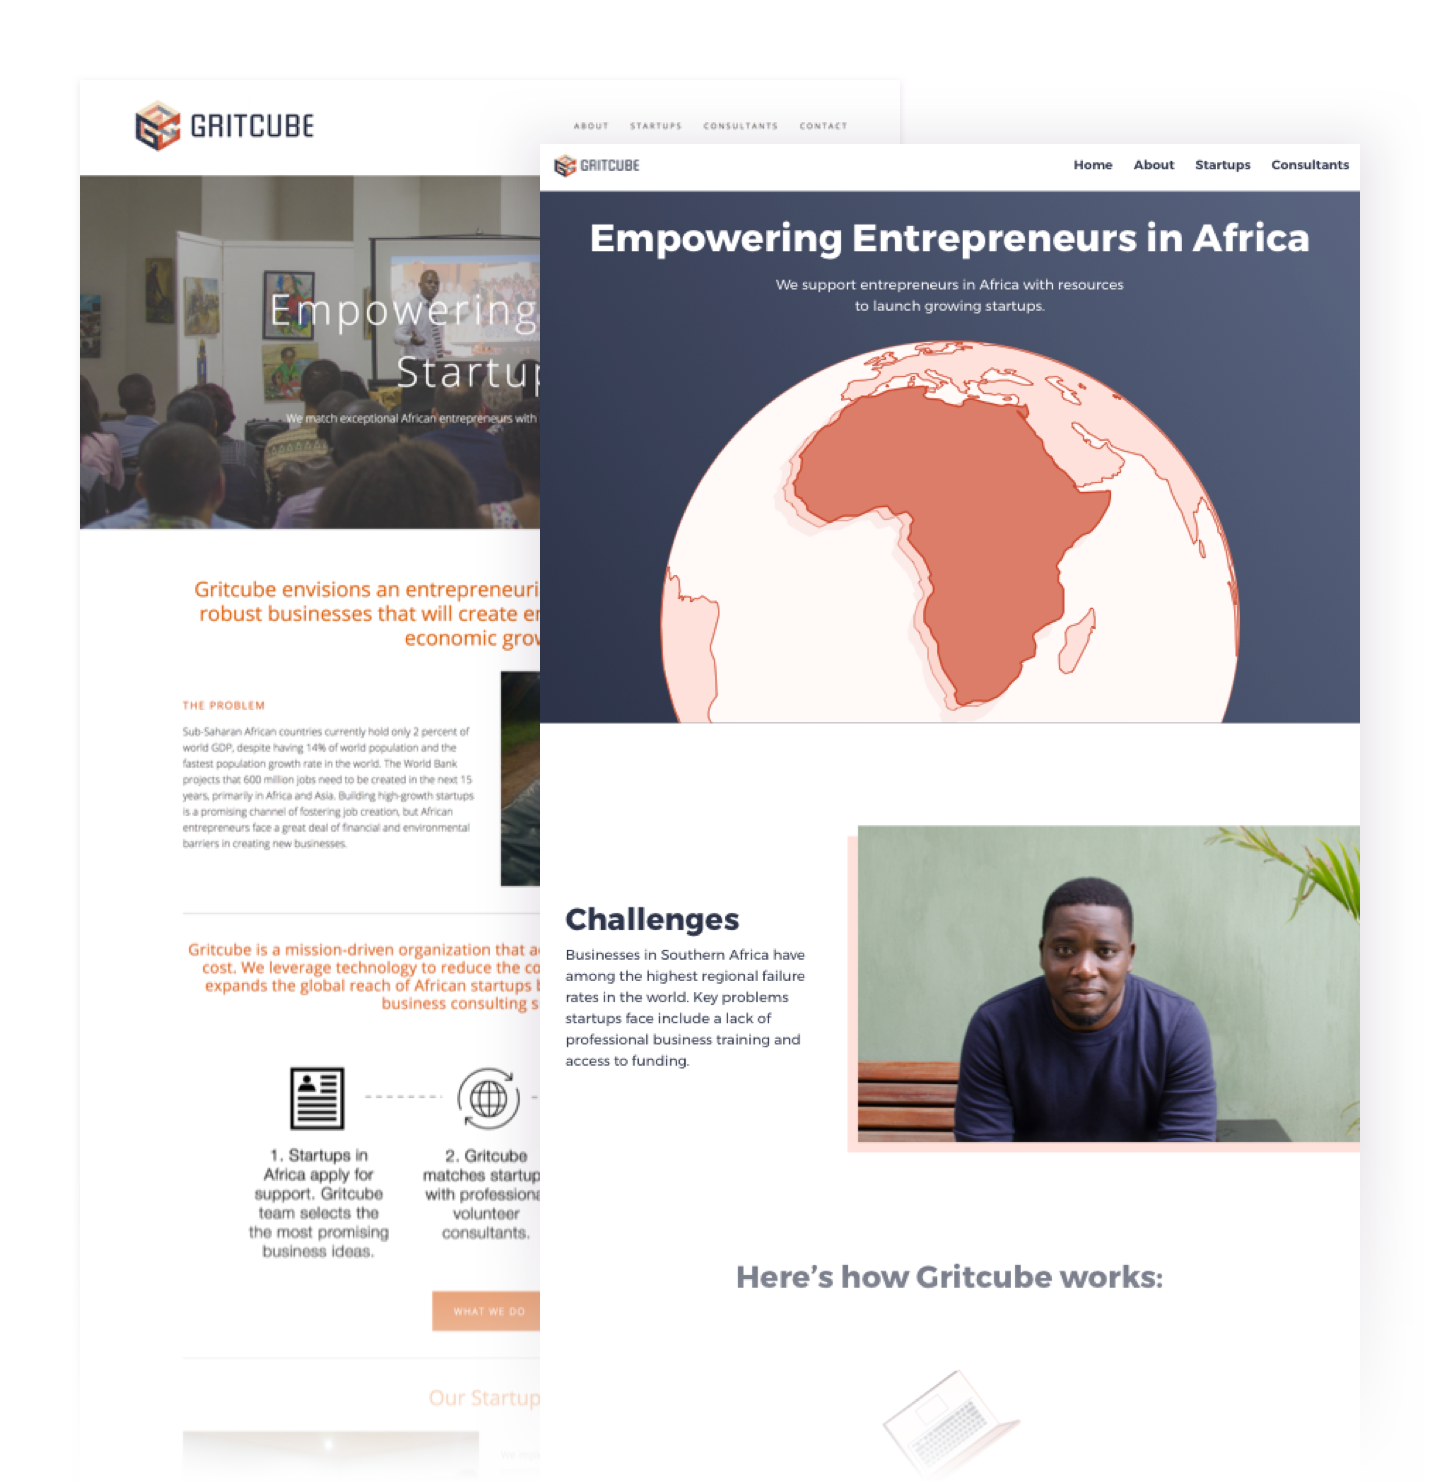
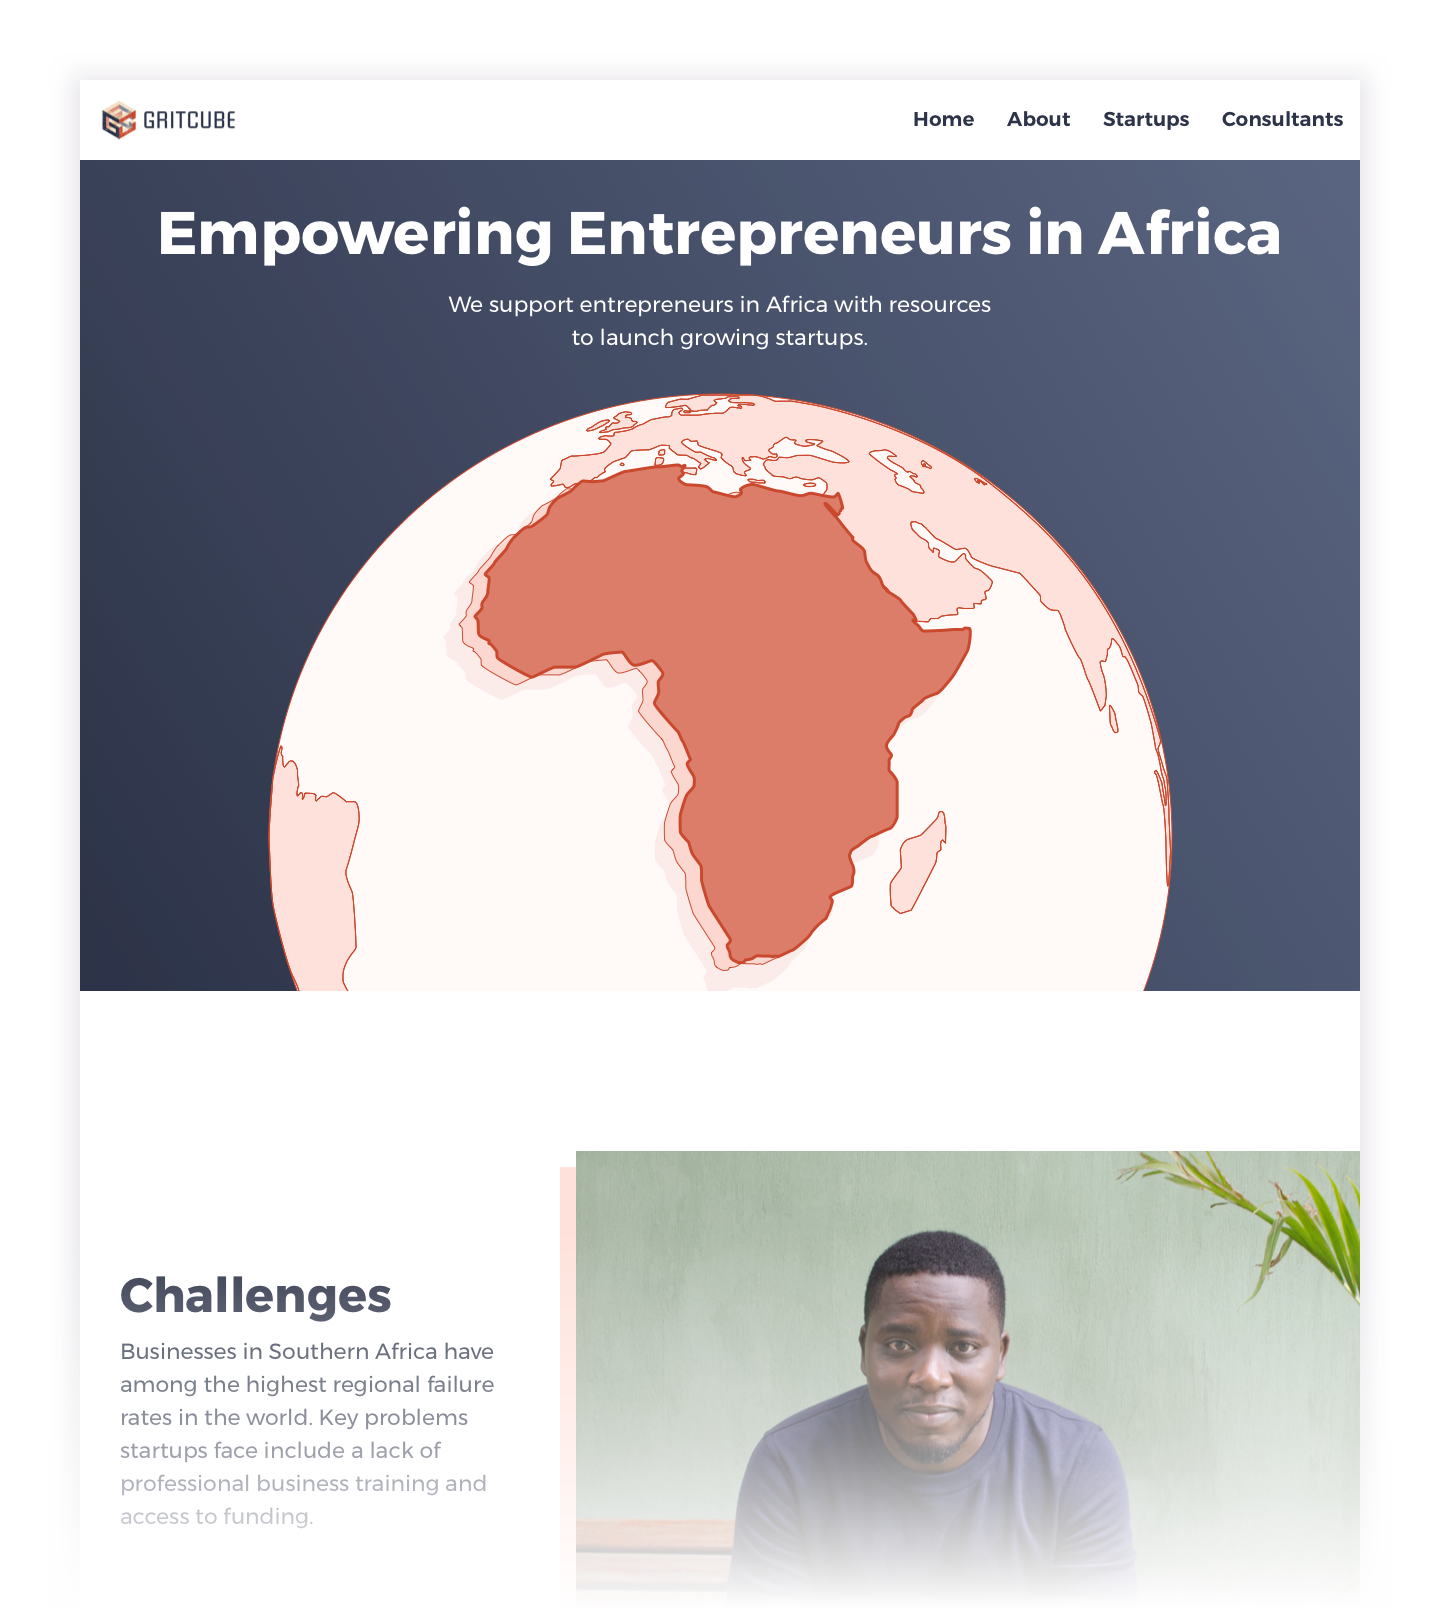
Updated gritcube image to only showcase the end result of the home page

diff --git a/css/styles.css b/css/styles.css
@@ -121,11 +121,11 @@ figure[data-ratio="4:3"] {
 }
 
 figure[data-ratio="gritcube"] {
-  padding-top: 102.92%;
+  padding-top: 111.74%;
 }
 
 figure[data-ratio="simpool"] {
-  padding-top: 102.92%;
+  padding-top: 111.74%;
 }
 
 figure img {
